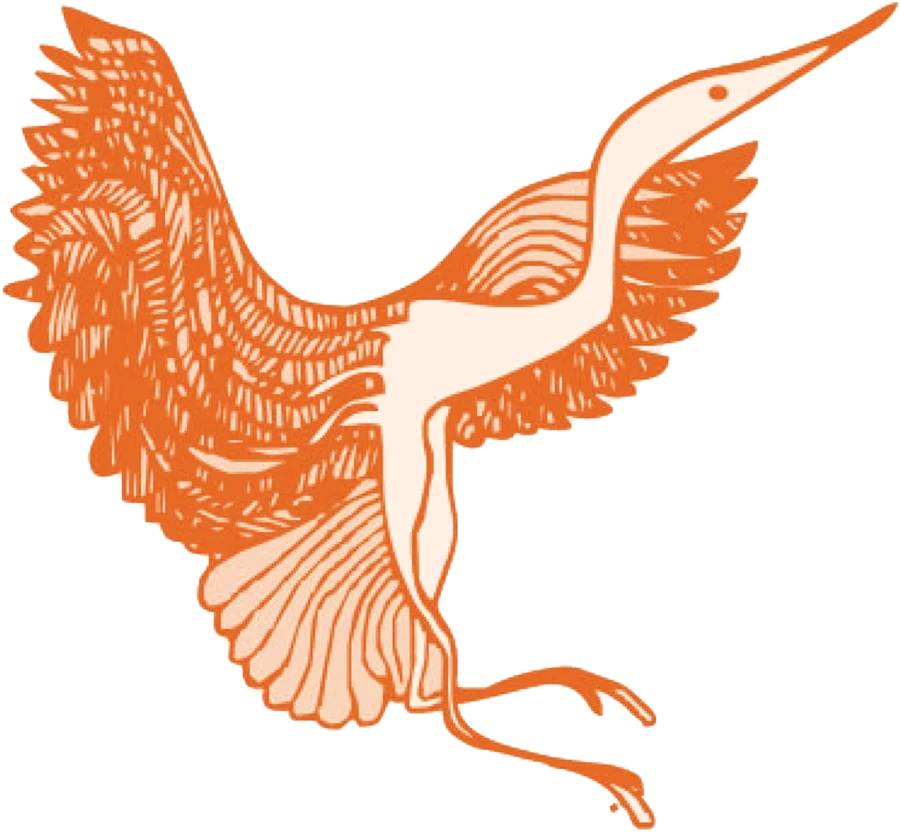
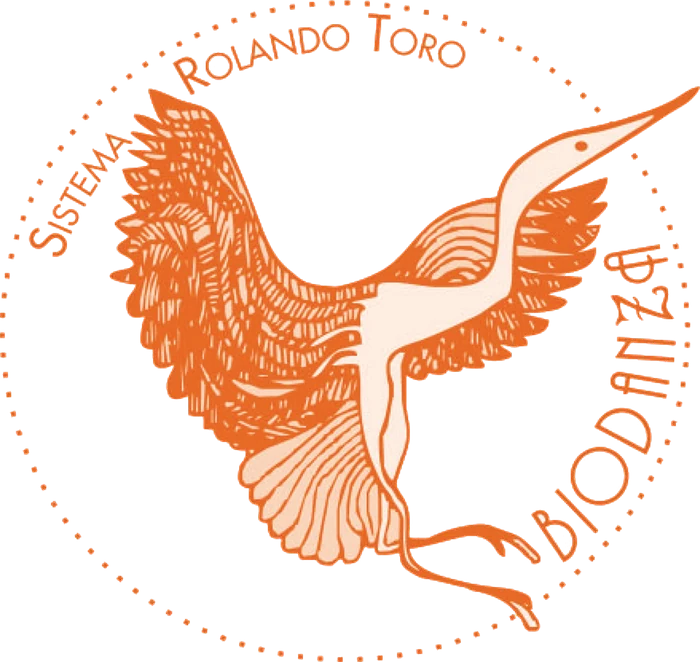
taltalia: הסמל המלא של הביודנסה (עם הטבעת והכיתוב Sistema Rolando Toro) חולף על פני השמש, ובגודל קטן יותר

diff --git a/apps/taltalia/public/index.html b/apps/taltalia/public/index.html
@@ -34,7 +34,7 @@
   <link rel="preconnect" href="https://fonts.googleapis.com" />
   <link rel="preconnect" href="https://fonts.gstatic.com" crossorigin />
   <link href="https://fonts.googleapis.com/css2?family=Secular+One&family=Heebo:wght@400;500;700;800&display=swap" rel="stylesheet" />
-  <link rel="stylesheet" href="assets/styles.css?v=69" />
+  <link rel="stylesheet" href="assets/styles.css?v=70" />
 
   <script type="application/ld+json">
   {
@@ -219,7 +219,7 @@
   </section>
 
   <section class="sec sec--final" id="contact">
-    <div class="dusk" aria-hidden="true"><i class="star" style="--x:10%;--y:8%;--t:3s;--w:0s"></i><i class="star" style="--x:24%;--y:18%;--t:4s;--w:1s"></i><i class="star" style="--x:38%;--y:6%;--t:3.5s;--w:2s"></i><i class="star" style="--x:52%;--y:14%;--t:5s;--w:0.5s"></i><i class="star" style="--x:66%;--y:7%;--t:4s;--w:1.5s"></i><i class="star" style="--x:78%;--y:20%;--t:3s;--w:2.5s"></i><i class="star" style="--x:90%;--y:10%;--t:4.5s;--w:0s"></i><i class="star" style="--x:15%;--y:28%;--t:5s;--w:3s"></i><i class="star" style="--x:84%;--y:30%;--t:3.5s;--w:1s"></i><span class="setting-sun"></span><img class="heron" src="assets/img/heron.webp" width="900" height="832" alt="" loading="lazy" decoding="async" /></div>
+    <div class="dusk" aria-hidden="true"><i class="star" style="--x:10%;--y:8%;--t:3s;--w:0s"></i><i class="star" style="--x:24%;--y:18%;--t:4s;--w:1s"></i><i class="star" style="--x:38%;--y:6%;--t:3.5s;--w:2s"></i><i class="star" style="--x:52%;--y:14%;--t:5s;--w:0.5s"></i><i class="star" style="--x:66%;--y:7%;--t:4s;--w:1.5s"></i><i class="star" style="--x:78%;--y:20%;--t:3s;--w:2.5s"></i><i class="star" style="--x:90%;--y:10%;--t:4.5s;--w:0s"></i><i class="star" style="--x:15%;--y:28%;--t:5s;--w:3s"></i><i class="star" style="--x:84%;--y:30%;--t:3.5s;--w:1s"></i><span class="setting-sun"></span><img class="heron" src="assets/img/heron.webp?v=2" width="700" height="662" alt="" loading="lazy" decoding="async" /></div>
     <div class="wrap narrow center">
       <h2 class="rv">הביודנסה על קצה המזלג</h2>
       <p class="rv">הביודנסה נולדה בצ׳ילה בשנות ה־60, על ידי רולנדו טורו, שהיה פסיכולוג, אמן ואיש חינוך. היא מבוססת על ידע מתחומי הפסיכולוגיה, הביולוגיה, האנתרופולוגיה והאמנות, ומשלבת בין מדע, תנועה וחוויה לפיתוח הפוטנציאלים הגנטיים הטמונים באדם.</p>

diff --git a/apps/taltalia/public/assets/styles.css b/apps/taltalia/public/assets/styles.css
@@ -596,7 +596,7 @@ html, body { overflow-x: clip; }
 .list--five li { padding-block: 22px; }
 
 /* האנפה, סמל הביודנסה, חולפת לאט על פני השמש. תנועה רק ב-transform וב-opacity */
-.heron { position: absolute; left: 50%; inset-block-end: calc(6% + min(360px, 62vw) * .5); width: min(230px, 46vw); height: auto; margin-left: calc(min(230px, 46vw) / -2); opacity: 0; pointer-events: none; filter: drop-shadow(0 10px 26px rgba(60, 20, 40, .35)); animation: heron-pass 34s linear infinite; will-change: transform, opacity; }
+.heron { position: absolute; left: 50%; inset-block-end: calc(6% + min(360px, 62vw) * .5); width: min(170px, 36vw); height: auto; margin-left: calc(min(170px, 36vw) / -2); opacity: 0; pointer-events: none; filter: drop-shadow(0 10px 26px rgba(60, 20, 40, .35)); animation: heron-pass 34s linear infinite; will-change: transform, opacity; }
 @keyframes heron-pass {
   0%   { transform: translate3d(-75vw, 18px, 0) rotate(-3deg); opacity: 0; }
   8%   { opacity: 1; }
